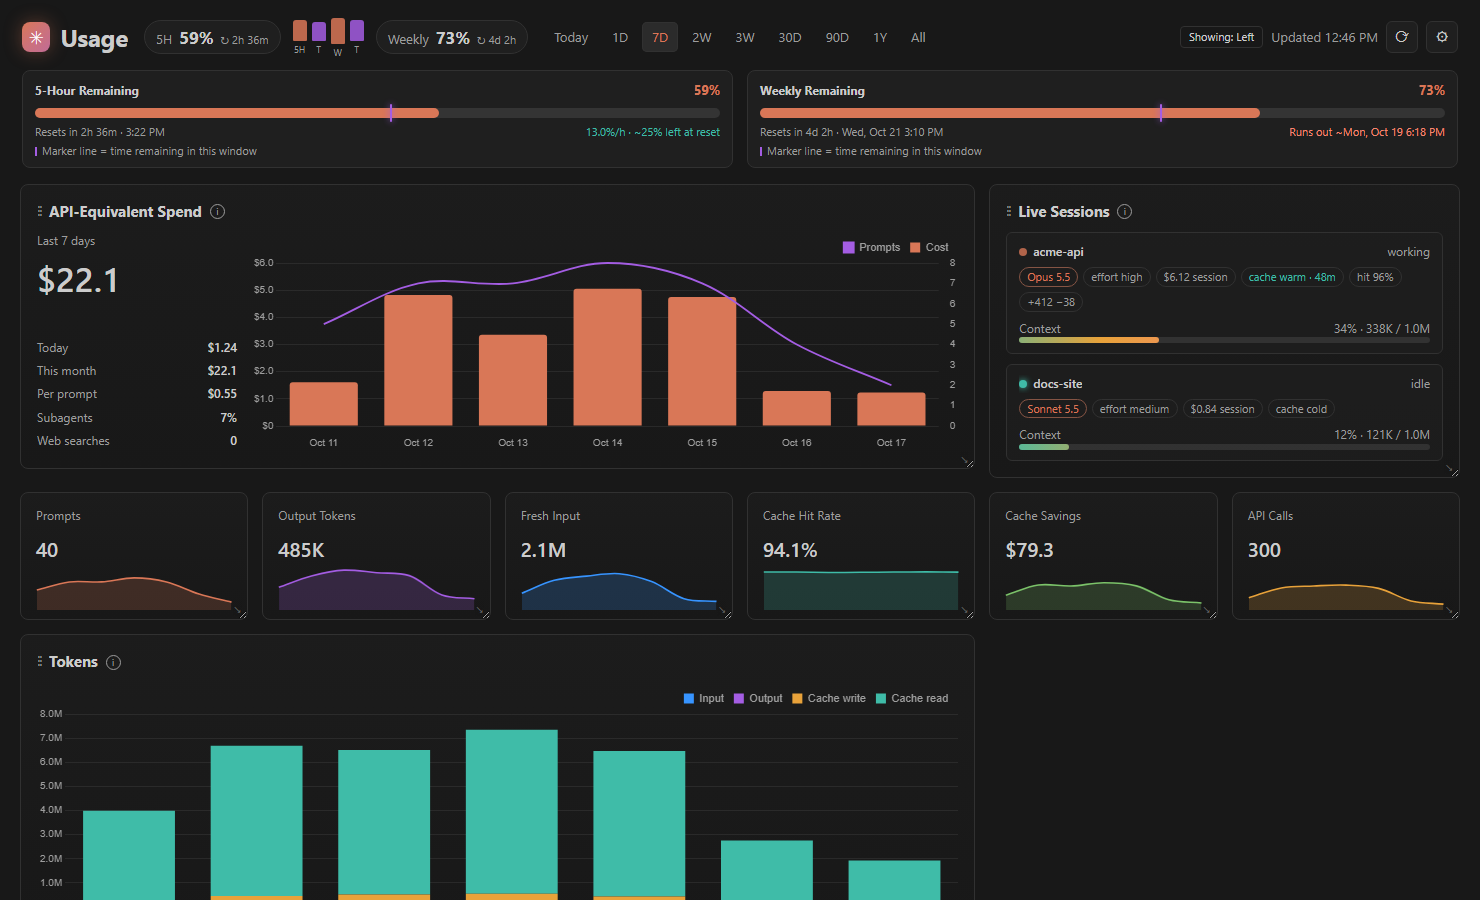
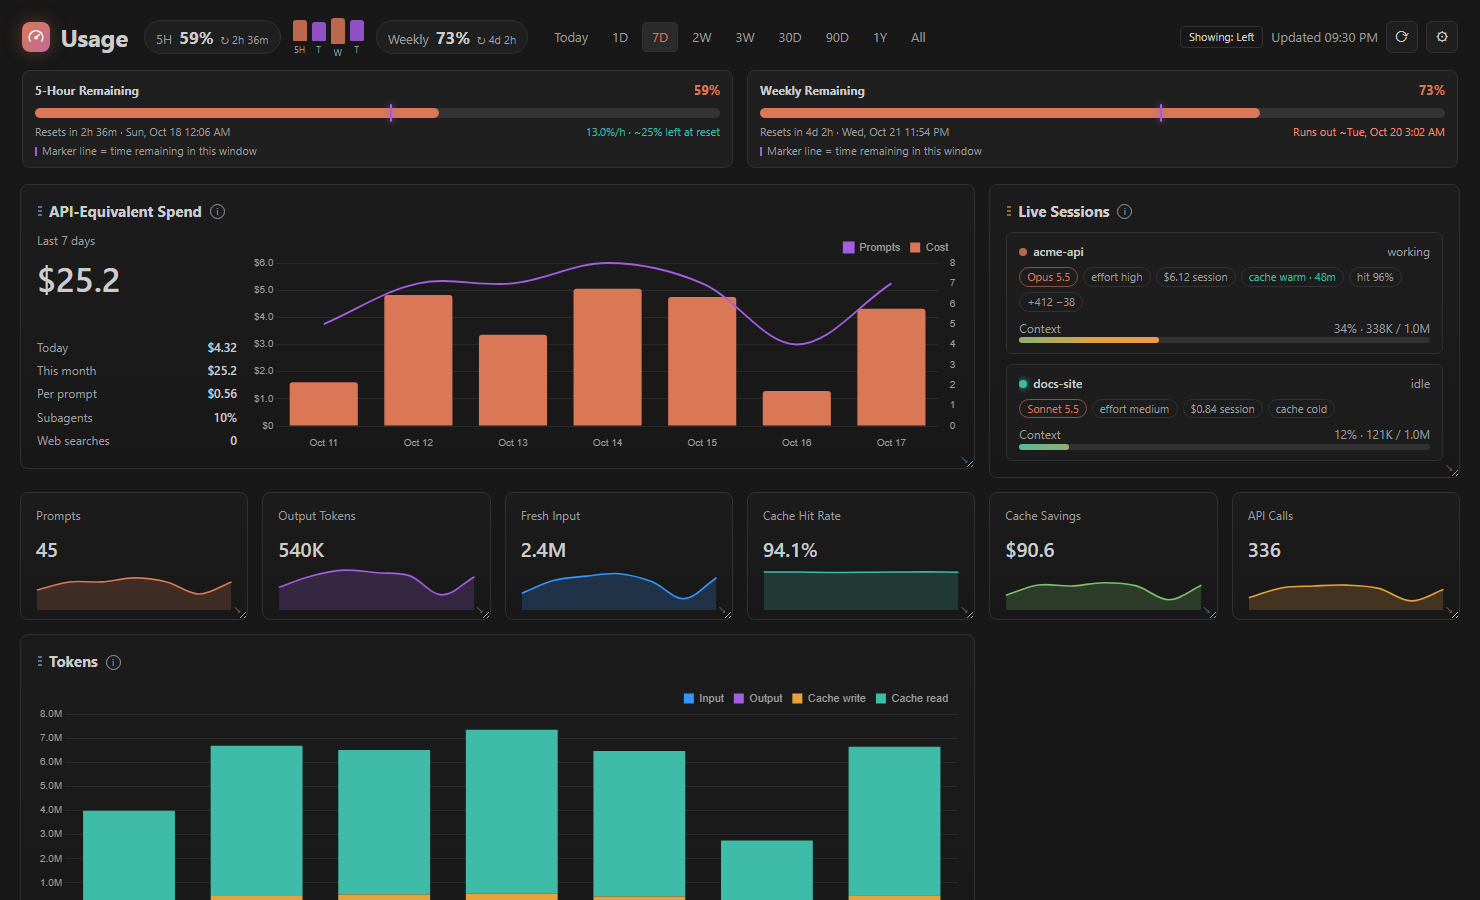
Rename to Claude Code Token Usage Tracker (0.9.0)
Display name: Claude Code Token Usage Tracker. Extension ID:
kararo-consulting.token-usage-tracker (a neutral ID, since the ID cannot change
after publishing). The Command Palette prefix, panel and messages say "Token
Usage Tracker". The first-choice names "Claude Code Usage Tracker" and "Claude
Code Token Tracker" are already taken on the Marketplace.

The dashboard header uses a plain gauge icon instead of a star glyph, and the
README screenshots are regenerated. The repository is renamed to
claude-code-token-usage-tracker (the old address redirects). The publishing
guide records the decision to keep "Claude Code" in the display name and the
steps taken to reduce the trademark exposure.

Uninstall earlier builds: the extension ID changed, so VS Code treats this as a
new extension. Settings and the statusline bridge carry over unchanged.

diff --git a/src/extension.ts b/src/extension.ts
@@ -32,7 +32,7 @@ function resolveClaudeDir(): string {
 }
 
 class Tracker implements vscode.Disposable {
-	private readonly output = vscode.window.createOutputChannel('Usage Tracker');
+	private readonly output = vscode.window.createOutputChannel('Token Usage Tracker');
 	private readonly statusBar = new TrackerStatusBar();
 	private readonly disposables: vscode.Disposable[] = [];
 	private readonly watchers: vscode.Disposable[] = [];
@@ -156,7 +156,7 @@ class Tracker implements vscode.Disposable {
 			const cli = await resolveClaudeCli();
 			if (!cli) {
 				this.log('Limits poll skipped: Claude Code CLI not found.');
-				if (announce) void vscode.window.showWarningMessage('Usage Tracker: could not find the Claude Code CLI to read limits.');
+				if (announce) void vscode.window.showWarningMessage('Token Usage Tracker: could not find the Claude Code CLI to read limits.');
 				return;
 			}
 			const cwd = this.context.globalStorageUri.fsPath;
@@ -168,12 +168,12 @@ class Tracker implements vscode.Disposable {
 				// Never let a future CLI turn polling into billed model calls.
 				this.pollDisabledReason = result.error;
 				this.log(`Limits polling stopped: ${result.error}`);
-				void vscode.window.showWarningMessage(`Usage Tracker stopped polling limits: ${result.error}. The statusline bridge still works.`);
+				void vscode.window.showWarningMessage(`Token Usage Tracker stopped polling limits: ${result.error}. The statusline bridge still works.`);
 				return;
 			}
 			if (!result.report) {
 				this.log(`Limits poll failed: ${result.error}`);
-				if (announce) void vscode.window.showWarningMessage(`Usage Tracker: could not read limits. ${result.error ?? ''}`);
+				if (announce) void vscode.window.showWarningMessage(`Token Usage Tracker: could not read limits. ${result.error ?? ''}`);
 				return;
 			}
 			const saved = await saveReport(this.bridge.directory, result.report);
@@ -184,7 +184,7 @@ class Tracker implements vscode.Disposable {
 			);
 			if (!saved && announce) {
 				void vscode.window.showInformationMessage(
-					r.subscription ? 'Usage Tracker: /usage returned no limit windows.' : 'Usage Tracker: rate limits are only reported for Claude Pro and Max subscriptions.',
+					r.subscription ? 'Token Usage Tracker: /usage returned no limit windows.' : 'Token Usage Tracker: rate limits are only reported for Claude Pro and Max subscriptions.',
 				);
 			}
 			if (saved) await this.refresh();
@@ -272,7 +272,7 @@ class Tracker implements vscode.Disposable {
 			this.postState();
 		} catch (error) {
 			this.log(`Refresh failed: ${error instanceof Error ? (error.stack ?? error.message) : String(error)}`);
-			if (reportErrors) void vscode.window.showErrorMessage(`Usage Tracker refresh failed: ${String(error)}`);
+			if (reportErrors) void vscode.window.showErrorMessage(`Token Usage Tracker refresh failed: ${String(error)}`);
 		}
 	}
 
@@ -391,9 +391,9 @@ class Tracker implements vscode.Disposable {
 				}
 				// Readability warnings come from the saved result, so they also catch a good colour on a bad base.
 				if (['theme', 'colors', 'chartPalette', 'customChartColors'].some(k => k in values)) problems.push(...this.effectiveTheme().warnings);
-				if (problems.length) void vscode.window.showWarningMessage(`Usage Tracker: ${problems.join(' ')}`);
+				if (problems.length) void vscode.window.showWarningMessage(`Token Usage Tracker: ${problems.join(' ')}`);
 				if ('defaultRange' in message.values) await this.context.globalState.update(RANGE_KEY, message.values.defaultRange);
-				void vscode.window.setStatusBarMessage('Usage Tracker settings saved', 2500);
+				void vscode.window.setStatusBarMessage('Token Usage Tracker settings saved', 2500);
 				// Re-post even when every change was rejected, so a live preview in the dashboard snaps back to what is saved.
 				this.postState();
 				return;

diff --git a/src/bridgeInstall.ts b/src/bridgeInstall.ts
@@ -92,7 +92,7 @@ export class BridgeInstaller {
 		const nodeVersion = await nodeAvailable();
 		if (!nodeVersion) {
 			void vscode.window.showErrorMessage(
-				'Usage Tracker: the statusline bridge needs Node.js on PATH (Claude Code runs it as `node …`). Install Node.js and try again.',
+				'Token Usage Tracker: the statusline bridge needs Node.js on PATH (Claude Code runs it as `node …`). Install Node.js and try again.',
 			);
 			return false;
 		}
@@ -100,14 +100,14 @@ export class BridgeInstaller {
 		try {
 			parsed = await readSettings(this.settingsPath);
 		} catch (error) {
-			void vscode.window.showErrorMessage(`Usage Tracker: could not parse ${this.settingsPath}; it was left unchanged. ${String(error)}`);
+			void vscode.window.showErrorMessage(`Token Usage Tracker: could not parse ${this.settingsPath}; it was left unchanged. ${String(error)}`);
 			return false;
 		}
 		const { settings, exists } = parsed;
 		const existing: StatusLineSetting | undefined = settings.statusLine;
 		if (existing?.command?.includes(SCRIPT_NAME)) {
 			await this.syncScript();
-			void vscode.window.showInformationMessage('Usage Tracker: the statusline bridge is already connected.');
+			void vscode.window.showInformationMessage('Token Usage Tracker: the statusline bridge is already connected.');
 			return true;
 		}
 
@@ -122,7 +122,7 @@ export class BridgeInstaller {
 					`This sets "statusLine" in ${this.settingsPath} to run a small local script (${this.scriptPath}). ` +
 					'Claude Code passes it your 5-hour and weekly rate-limit usage, context window and prompt-cache stats; the script saves them under ' +
 					`${this.dataDir} for this extension. Nothing is sent anywhere.${chainNote}\n\n` +
-					'A backup of settings.json is written next to it. Use "Usage Tracker: Disconnect Statusline Bridge" to undo.',
+					'A backup of settings.json is written next to it. Use "Token Usage Tracker: Disconnect Statusline Bridge" to undo.',
 			},
 			'Connect',
 		);
@@ -142,7 +142,7 @@ export class BridgeInstaller {
 		await fsp.writeFile(this.settingsPath, JSON.stringify(settings, null, 2) + '\n');
 		this.log(`Bridge connected using Node ${nodeVersion}: ${statusLine.command}`);
 		void vscode.window.showInformationMessage(
-			'Usage Tracker: bridge connected. Live limits appear after the next Claude Code response (Pro and Max plans report rate limits).',
+			'Token Usage Tracker: bridge connected. Live limits appear after the next Claude Code response (Pro and Max plans report rate limits).',
 		);
 		return true;
 	}
@@ -152,12 +152,12 @@ export class BridgeInstaller {
 		try {
 			parsed = await readSettings(this.settingsPath);
 		} catch (error) {
-			void vscode.window.showErrorMessage(`Usage Tracker: could not parse ${this.settingsPath}; it was left unchanged. ${String(error)}`);
+			void vscode.window.showErrorMessage(`Token Usage Tracker: could not parse ${this.settingsPath}; it was left unchanged. ${String(error)}`);
 			return false;
 		}
 		const { settings } = parsed;
 		if (!settings.statusLine?.command?.includes(SCRIPT_NAME)) {
-			void vscode.window.showInformationMessage('Usage Tracker: the statusline bridge is not connected.');
+			void vscode.window.showInformationMessage('Token Usage Tracker: the statusline bridge is not connected.');
 			return false;
 		}
 		let previous: StatusLineSetting | null;

diff --git a/src/dashboard.ts b/src/dashboard.ts
@@ -70,11 +70,11 @@ export class DashboardProvider implements vscode.WebviewViewProvider {
 <meta http-equiv="Content-Security-Policy" content="${csp}">
 <meta name="viewport" content="width=device-width, initial-scale=1.0">
 <link rel="stylesheet" href="${asset('dashboard.css')}">
-<title>Usage Tracker</title>
+<title>Token Usage Tracker</title>
 </head>
 <body>
 	<header class="topbar">
-		<div class="brand"><span class="logo" aria-hidden="true">✳</span><span class="title">Usage</span><div id="quotaStrip" class="quota-strip" aria-label="Rate-limit windows"></div></div>
+		<div class="brand"><span class="logo" aria-hidden="true"><svg viewBox="0 0 24 24" width="18" height="18" fill="none" stroke="currentColor" stroke-width="2" stroke-linecap="round" stroke-linejoin="round"><path d="M4.5 17.5a9 9 0 1 1 15 0"/><path d="M12 13l4.2-4.2"/><circle cx="12" cy="13" r="1.4" fill="currentColor"/></svg></span><span class="title">Usage</span><div id="quotaStrip" class="quota-strip" aria-label="Rate-limit windows"></div></div>
 		<nav id="ranges" class="ranges" aria-label="Date range"></nav>
 		<div class="top-actions">
 			<button id="displayToggle" class="btn small" type="button" title="Switch between remaining and used">Showing: Left</button>

diff --git a/src/terminal.ts b/src/terminal.ts
@@ -47,7 +47,7 @@ export async function resolveClaudeCli(): Promise<string | undefined> {
 function missingCliMessage(): void {
 	void vscode.window
 		.showErrorMessage(
-			'Usage Tracker: could not find the Claude Code CLI. Install the Claude Code extension or the CLI, or set claudeTracker.claudePath.',
+			'Token Usage Tracker: could not find the Claude Code CLI. Install the Claude Code extension or the CLI, or set claudeTracker.claudePath.',
 			'Open Setting',
 		)
 		.then(pick => pick && vscode.commands.executeCommand('workbench.action.openSettings', 'claudeTracker.claudePath'));

diff --git a/src/statusBar.ts b/src/statusBar.ts
@@ -30,7 +30,7 @@ export class TrackerStatusBar implements vscode.Disposable {
 		this.item.name = 'Claude Code Usage';
 		this.item.command = OPEN_PANEL;
 		this.item.text = '$(pulse) Claude';
-		this.item.tooltip = 'Usage Tracker: scanning transcripts…';
+		this.item.tooltip = 'Token Usage Tracker: scanning transcripts…';
 		this.item.show();
 	}
 

diff --git a/resources/bridge/statusline-bridge.js b/resources/bridge/statusline-bridge.js
@@ -1,6 +1,6 @@
 #!/usr/bin/env node
 'use strict';
-// Claude Code statusline bridge for Usage Tracker for Claude Code.
+// Claude Code statusline bridge for Claude Code Token Usage Tracker.
 //
 // Claude Code pipes a JSON snapshot of the session (model, context window,
 // cost, prompt cache and, for Pro/Max subscribers, rate limits) to the

diff --git a/media/dashboard.js b/media/dashboard.js
@@ -1,4 +1,4 @@
-// Usage Tracker dashboard (webview client). Plain browser JS, no bundler.
+// Token Usage Tracker dashboard (webview client). Plain browser JS, no bundler.
 (function () {
 	'use strict';
 	/* global acquireVsCodeApi, Chart */

diff --git a/docs/publishing-to-marketplace.md b/docs/publishing-to-marketplace.md
@@ -1,6 +1,6 @@
 # Publishing to the VS Code Marketplace
 
-This guide takes Usage Tracker for Claude Code from a local `.vsix` file to a public
+This guide takes Claude Code Token Usage Tracker from a local `.vsix` file to a public
 listing that anyone can install from the Extensions view. It assumes no prior
 publishing experience. Facts about Marketplace rules were checked against
 Microsoft's [Publishing Extensions](https://code.visualstudio.com/api/working-with-extensions/publishing-extension)
@@ -48,12 +48,18 @@ a name):
   you "may not use our trademarks in a manner that implies Anthropic's sponsorship or endorsement,
   or a relationship or affiliation with Anthropic".
 
-So keep **"Claude" and "Claude Code" out of the display name, the command category, the
-publisher name and the repository name.** Say what the extension works with in plain text
-instead: in the description, the README and the keywords, together with the notice *"Not
-affiliated with or endorsed by Anthropic. Claude and Claude Code are trademarks of Anthropic,
-PBC."* The Marketplace searches descriptions and keywords, so people looking for Claude Code
-usage tools still find it.
+Read literally, the first passage rules "Claude Code" out of a product name. **The owner of this
+project has decided to keep it in the display name ("Claude Code Token Usage Tracker") and accepts
+that risk.** To reduce it:
+
+- the Command Palette prefix, panel and messages say only **"Token Usage Tracker"**;
+- the extension ID (`token-usage-tracker`), the publisher (`kararo-consulting`) and the company
+  name do not contain Claude's names;
+- no Anthropic logos or lookalike marks are used (the dashboard icon is a plain gauge);
+- the README opens with *"Not affiliated with or endorsed by Anthropic. Claude and Claude Code are
+  trademarks of Anthropic, PBC."*;
+- if Anthropic ever objects, the display name can be changed in a new version (as far as is
+  known), but the extension ID cannot, which is why the ID is neutral.
 
 This is not legal advice. For certainty, ask Anthropic (the guidelines give
 marketing@anthropic.com for permission requests) or a lawyer. Many existing Marketplace extensions
@@ -62,7 +68,7 @@ have "Claude" in their names; the Marketplace allows that, but it is not permiss
 There are two names to get right:
 
 - the **display name** shown in the Marketplace and the Extensions view, and
-- the **command category**, the prefix in the Command Palette (`Usage Tracker: Show Panel`).
+- the **command category**, the prefix in the Command Palette (`Token Usage Tracker: Show Panel`).
   It is the `category` of every command in `package.json`.
 
 ### Check what already exists
@@ -84,20 +90,17 @@ everything:
 
 ### Results on 2026-10-17
 
-- **The current name, "Usage Tracker for Claude Code"**, has no exact match, but it uses
-  "Claude Code" (see above) and the space is crowded with near twins, for example *Claude Code
-  Usage Tracker* (about 14,900 installs), *Clusage - Claude Usage Tracker* and *Claude Usage
-  Tracker for Claude Code*. Replace it before 1.0.0.
-- **Free on both marketplaces** (no exact name match, and the name is not a command category in
-  any of the 288 extensions checked): **Token Beacon, Quota Compass, Burn Gauge, Fuel Gauge,
-  Token Tally, Usage Compass, Rate Gauge, Quota Radar**, and earlier checks of **Limit Lens**
-  and **Kararo Usage**.
-- **Taken or too close:** **Headroom** (`edwarddjss.headroom`, also a command category),
-  **Redline** (taken, and its command category is used by four extensions), and **Pacer**
-  (*Pacer for GitHub Copilot* does the same job for another tool).
-
-Choose a distinctive brand that says what it does (a gauge, quota or meter word) without using
-Anthropic's names, and put "Claude Code" in the description and keywords instead.
+- **Chosen: "Claude Code Token Usage Tracker".** No exact match on the Marketplace or Open VSX,
+  and "Token Usage Tracker" is not a command category in any of the 80 manifests checked. Nearest
+  neighbour: *Codaude: Claude Code & Codex Token Usage Tracker* (26 installs).
+- **Taken, so not usable:** **Claude Code Usage Tracker** (`YahyaShareef.claude-code-usage-tracker`,
+  about 14,900 installs), **Claude Code Token Tracker** (`claude-token-tracker.claude-code-token-tracker`,
+  about 2,200 installs, plus a near twin), **Claude Code Usage Monitor** and **Claude Code Usage
+  Dashboard**. Also taken or too close: **Headroom**, **Redline**, and **Pacer** (*Pacer for GitHub
+  Copilot*).
+- **Fallbacks without Claude's names**, free on both marketplaces on 2026-10-17 if the name ever has
+  to change: **Quota Compass, Burn Gauge, Token Beacon, Fuel Gauge, Token Tally, Usage Compass,
+  Rate Gauge, Quota Radar**.
 
 ### Changing the name before 1.0.0
 
@@ -131,7 +134,7 @@ redirects the old URL) and update `repository`, `bugs` and `homepage`. Keep the
 
 ### 3.1 GitHub repository
 
-The source lives at <https://github.com/jeffkararo/usage-tracker-for-claude-code>. The
+The source lives at <https://github.com/jeffkararo/claude-code-token-usage-tracker>. The
 `repository`, `bugs` and `homepage` fields in `package.json` point to it. Without them,
 `vsce` cannot rewrite the README's relative links and image paths into working URLs.
 

diff --git a/README.md b/README.md
@@ -1,4 +1,4 @@
-# Usage Tracker for Claude Code
+# Claude Code Token Usage Tracker
 
 > Not affiliated with or endorsed by Anthropic. Claude and Claude Code are trademarks of Anthropic, PBC.
 
@@ -72,14 +72,14 @@ and writes no transcript. The extension reads the "Current session" (5-hour)
 and "Current week" lines. This works even if you only use the VS Code chat
 panel. If a future Claude Code version ever sent `/usage` to the model,
 the extension notices the cost, stops polling and tells you.
-**Usage Tracker: Refresh Rate Limits Now** polls on demand, and so does the
+**Token Usage Tracker: Refresh Rate Limits Now** polls on demand, and so does the
 dashboard's ⟳ button.
 
 ### The statusline bridge
 
 Claude Code passes a JSON snapshot to the configured `statusLine` command after
 each response. For Pro and Max subscribers this includes `rate_limits`. Run
-**Usage Tracker: Connect Statusline Bridge** to:
+**Token Usage Tracker: Connect Statusline Bridge** to:
 
 1. copy `statusline-bridge.js` to `~/.claude/claude-code-tracker/`,
 2. back up `~/.claude/settings.json` to `settings.json.claude-tracker.bak`,
@@ -93,7 +93,7 @@ only to `~/.claude/claude-code-tracker/`.
 **The VS Code chat panel does not run statusline commands**, so it never
 sends limits. Rate limits arrive only from Claude Code running in a terminal.
 The extension adds a **Claude Code** entry to the terminal **+** menu (and the
-command **Usage Tracker: Open Claude Code in Terminal**). That entry runs
+command **Token Usage Tracker: Open Claude Code in Terminal**). That entry runs
 `claudeTracker.claudePath`, otherwise `claude` on PATH, otherwise the CLI
 bundled with the Claude Code extension. One prompt there refreshes the limits
 for your whole account.

diff --git a/CHANGELOG.md b/CHANGELOG.md
@@ -3,6 +3,14 @@
 Versions below 1.0.0 are development builds and are not published to the Marketplace.
 The first Marketplace release will be **1.0.0**.
 
+## 0.9.0 — 2026-10-17
+
+- Renamed to **Claude Code Token Usage Tracker** (extension ID `kararo-consulting.token-usage-tracker`). The Command Palette prefix, panel and messages say **Token Usage Tracker**.
+- The extension now publishes under the **Kararo Consulting LLC** Marketplace publisher (`kararo-consulting`).
+- The dashboard header uses a neutral gauge icon instead of a star glyph.
+- **The extension ID changed, so VS Code treats this as a new extension.** Uninstall the earlier builds (`kararo.claude-code-tracker` and `kararo.usage-tracker-for-claude-code`, if installed) after installing this one, or they will run side by side. Settings, the statusline bridge and its data carry over unchanged.
+- The repository is now `claude-code-token-usage-tracker`; the old address redirects.
+
 ## 0.8.0 — 2026-10-17
 
 - Renamed to **Usage Tracker for Claude Code** (extension ID `usage-tracker-for-claude-code`), to avoid implying it is an Anthropic product. The README now carries a "not affiliated with Anthropic" notice.

diff --git a/SECURITY.md b/SECURITY.md
@@ -2,7 +2,7 @@
 
 ## What this extension touches
 
-Usage Tracker for Claude Code reads files Claude Code already writes on your machine and makes no network
+Claude Code Token Usage Tracker reads files Claude Code already writes on your machine and makes no network
 requests of its own:
 
 - transcripts under `~/.claude/projects/` (token counts, timestamps, tool names, and the text of your prompts,
